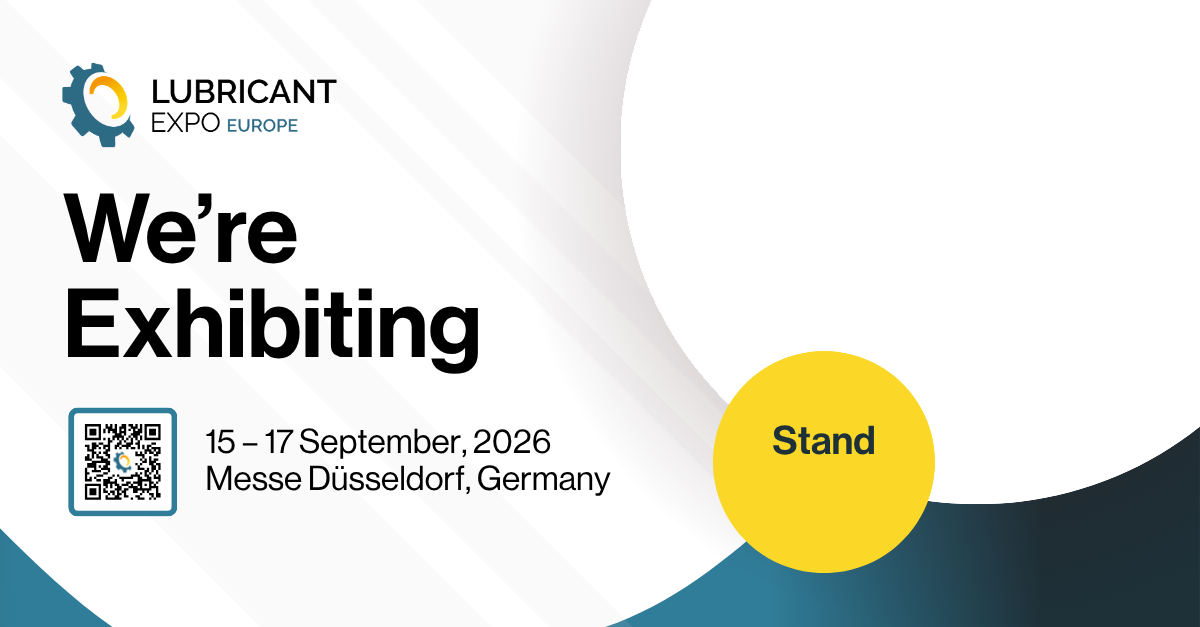
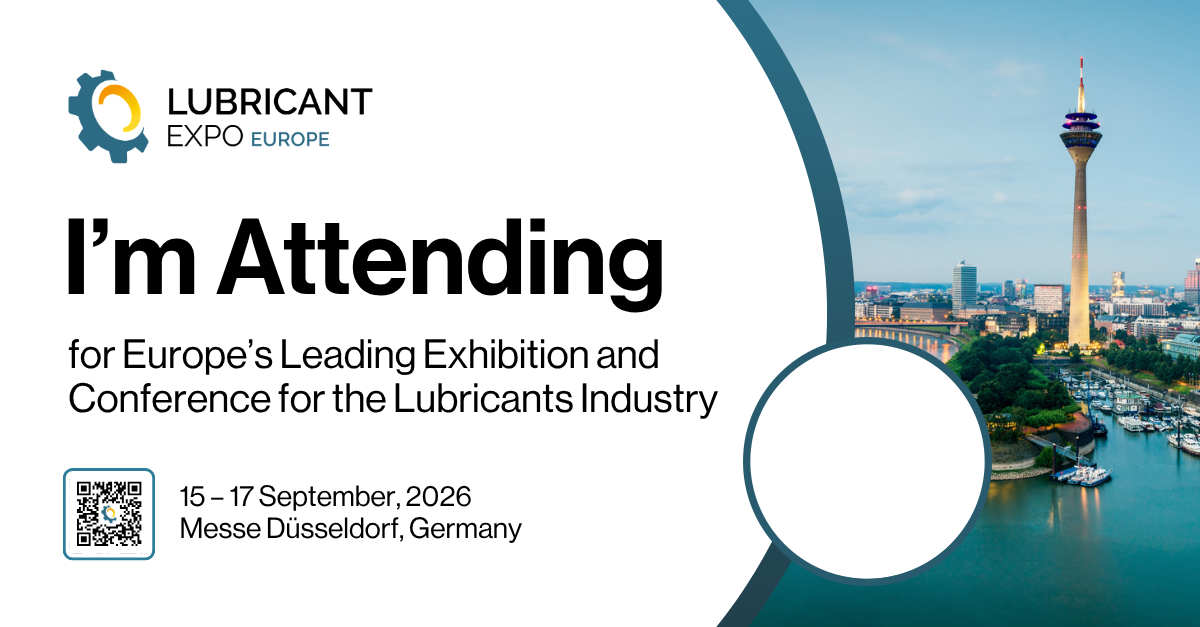
Update badge generation for new 1200x627 template and update circle position

diff --git a/script.js b/script.js
@@ -23,14 +23,18 @@
     let isDragging = false, startX, startY;
 
     // Landscape Canvas Resolution standard
-    canvas.width = 1024; 
-    canvas.height = 535;
+    canvas.width = 1200; 
+    canvas.height = 627;
 
     frameImage.crossOrigin = "anonymous";
     frameImage.src = FRAME_PATH_CURRENT;
     frameImage.onload = () => render();
 
     const dropZone = document.getElementById('drop-zone');
+    dropZone.style.aspectRatio = "1200 / 627";
+    placeholder.style.top = "73.5%";
+    placeholder.style.left = "72.25%";
+
 
 
 
@@ -52,8 +56,8 @@
             const dh = userImage.height * userImgScale;
             
             // Default center around the white area on the right
-            const imgCenterX = 850 + userImgX;
-            const imgCenterY = 171 + userImgY;
+            const imgCenterX = 867 + userImgX;
+            const imgCenterY = 461 + userImgY;
             
             ctx.drawImage(userImage, imgCenterX - dw / 2, imgCenterY - dh / 2, dw, dh);
             ctx.restore();
@@ -76,7 +80,7 @@
             const img = new Image();
             img.onload = () => {
                 userImage = img;
-                userImgScale = 280 / Math.max(img.width, img.height);
+                userImgScale = 300 / Math.max(img.width, img.height);
                 zoomSlider.value = userImgScale;
                 userImgX = 0; 
                 userImgY = 0;

diff --git a/style.css b/style.css
@@ -153,7 +153,7 @@ body {
 .drop-zone {
     width: 100%;
     max-width: 600px; 
-    aspect-ratio: 1024 / 535; 
+    aspect-ratio: 1200 / 627; 
     position: relative;
     cursor: pointer;
     border-radius: 16px; 
@@ -184,8 +184,8 @@ canvas {
    ========================================================================== */
 .placeholder {
     position: absolute;
-    top: 32%; 
-    left: 83%;
+    top: 73.5%; 
+    left: 72.25%;
     transform: translate(-50%, -50%);
     width: 200px;
     height: 200px;
